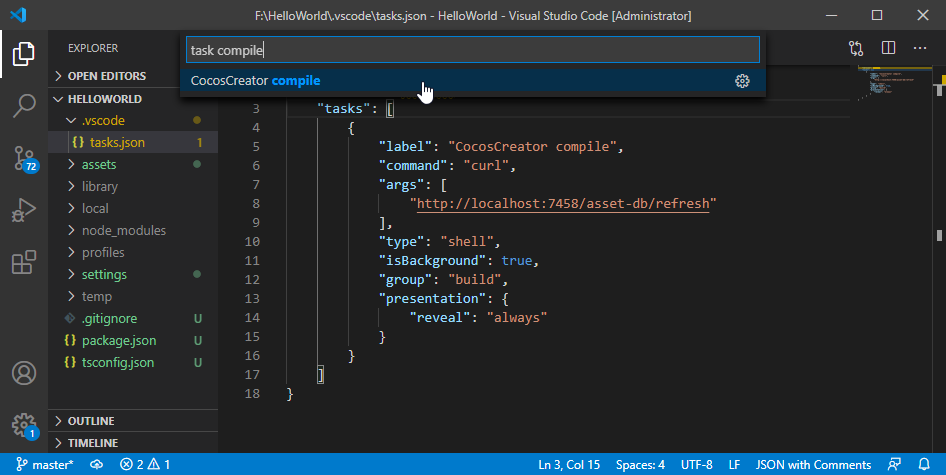
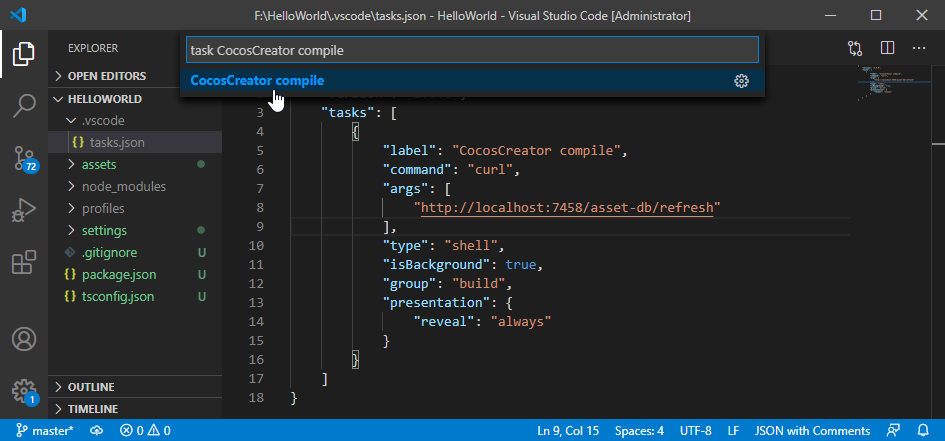
Commit changes

diff --git a/en/scripting/coding-setup.md b/en/scripting/coding-setup.md
@@ -67,14 +67,14 @@ Cocos Creator 在顶部菜单栏的 **开发者 -> VS Code 工作流** 中集成
 
 ![vscode workflow](coding-setup/vscode-workflow.png)
 
-- **添加编译任务**：用于在 VS Code 中触发 Creator 的脚本自动编译，详情请参考下文 **使用 VS Code 激活脚本编译** 部分的内容。
+- **添加编译任务**：用于在 VS Code 中触发 Creator 的脚本编译，详情请参考下文 **使用 VS Code 激活脚本编译** 部分的内容。
 
 - **添加 Chrome Debug 配置**：用于调试网页版游戏，详情请参考下文 **使用 VS Code 调试网页版游戏** 部分的内容。
 
 ### 使用 VS Code 激活脚本编译
 
-使用外部脚本编辑器修改项目脚本后，需要返回 Cocos Creator 编辑器以触发脚本自动编译。<br>
-我们在 Creator 中提供了 **添加编译任务** 功能，通过一个预览服务器的 API 向特定地址发送请求来激活编辑器的编译，这样在外部脚本编辑器修改了项目脚本后，执行 **编译任务** 便可触发脚本自动编译，不需要返回 Cocos Creator。
+使用外部脚本编辑器修改项目脚本后，需要返回 Cocos Creator 以触发脚本编译。<br>
+我们在 Creator 中提供了 **添加编译任务** 功能，通过一个预览服务器的 API 向特定地址发送请求来激活 Creator 的编译，这样在外部脚本编辑器修改了项目脚本后，执行 **编译任务** 便可触发脚本编译，不需要返回 Cocos Creator。
 
 #### 安装 cURL
 
@@ -84,7 +84,7 @@ Cocos Creator 在顶部菜单栏的 **开发者 -> VS Code 工作流** 中集成
 
 - 点击下图箭头所示的控件，完成人机身份验证（若无法正常显示控件，请科学上网）
 
-    ![curl download](coding-setup/curl_download.jpg)
+    ![curl download](coding-setup/curl-download.png)
 
 - 点击 `curl-7.46.0-win64.exe` 开始下载并安装
 
@@ -98,7 +98,7 @@ Cocos Creator 在顶部菜单栏的 **开发者 -> VS Code 工作流** 中集成
 
     ![task.json](coding-setup/tasks-json.png)
 
-2. 在 VS Code 里按下快捷键 <kbd>Cmd/Ctrl + P</kbd>，激活 **快速打开** 输入框，然后输入 `task compile`，选择 `Cocos Creator compile`。
+2. 在 VS Code 里按下快捷键 <kbd>Cmd/Ctrl + P</kbd>，激活 **快速打开** 输入框，然后输入 `task CocosCreator compile`，选择 `CocosCreator compile`。
 
     ![task compile](coding-setup/task-compile.png)
 
@@ -114,7 +114,7 @@ VS Code 还可以为编译任务配置快捷键，在主菜单中选择 **文件
 
 ![set compile](coding-setup/set-compile.png)
 
-之后在 VS Code 中按下快捷键 <kbd>Cmd/Ctrl + Shift + B</kbd> 便会自动显示 `Cocos Creator compile`，不需要手动搜索。
+之后在 VS Code 中按下快捷键 <kbd>Cmd/Ctrl + Shift + B</kbd> 便会自动显示 `CocosCreator compile`，不需要手动搜索。
 
 更多关于 VS Code 中配置和执行任务的信息，请参考 [Integrate with External Tools via Tasks](https://code.visualstudio.com/docs/editor/tasks) 文档。
 

diff --git a/zh/scripting/coding-setup.md b/zh/scripting/coding-setup.md
@@ -67,14 +67,14 @@ Cocos Creator 在顶部菜单栏的 **开发者 -> VS Code 工作流** 中集成
 
 ![vscode workflow](coding-setup/vscode-workflow.png)
 
-- **添加编译任务**：用于在 VS Code 中触发 Creator 的脚本自动编译，详情请参考下文 **使用 VS Code 激活脚本编译** 部分的内容。
+- **添加编译任务**：用于在 VS Code 中触发 Creator 的脚本编译，详情请参考下文 **使用 VS Code 激活脚本编译** 部分的内容。
 
 - **添加 Chrome Debug 配置**：用于调试网页版游戏，详情请参考下文 **使用 VS Code 调试网页版游戏** 部分的内容。
 
 ### 使用 VS Code 激活脚本编译
 
-使用外部脚本编辑器修改项目脚本后，需要返回 Cocos Creator 编辑器以触发脚本自动编译。<br>
-我们在 Creator 中提供了 **添加编译任务** 功能，通过一个预览服务器的 API 向特定地址发送请求来激活编辑器的编译，这样在外部脚本编辑器修改了项目脚本后，执行 **编译任务** 便可触发脚本自动编译，不需要返回 Cocos Creator。
+使用外部脚本编辑器修改项目脚本后，需要返回 Cocos Creator 以触发脚本编译。<br>
+我们在 Creator 中提供了 **添加编译任务** 功能，通过一个预览服务器的 API 向特定地址发送请求来激活 Creator 的编译，这样在外部脚本编辑器修改了项目脚本后，执行 **编译任务** 便可触发脚本编译，不需要返回 Cocos Creator。
 
 #### 安装 cURL
 
@@ -84,7 +84,7 @@ Cocos Creator 在顶部菜单栏的 **开发者 -> VS Code 工作流** 中集成
 
 - 点击下图箭头所示的控件，完成人机身份验证（若无法正常显示控件，请科学上网）
 
-    ![curl download](coding-setup/curl_download.jpg)
+    ![curl download](coding-setup/curl-download.png)
 
 - 点击 `curl-7.46.0-win64.exe` 开始下载并安装
 
@@ -98,7 +98,7 @@ Cocos Creator 在顶部菜单栏的 **开发者 -> VS Code 工作流** 中集成
 
     ![task.json](coding-setup/tasks-json.png)
 
-2. 在 VS Code 里按下快捷键 <kbd>Cmd/Ctrl + P</kbd>，激活 **快速打开** 输入框，然后输入 `task compile`，选择 `Cocos Creator compile`。
+2. 在 VS Code 里按下快捷键 <kbd>Cmd/Ctrl + P</kbd>，激活 **快速打开** 输入框，然后输入 `task CocosCreator compile`，选择 `CocosCreator compile`。
 
     ![task compile](coding-setup/task-compile.png)
 
@@ -114,7 +114,7 @@ VS Code 还可以为编译任务配置快捷键，在主菜单中选择 **文件
 
 ![set compile](coding-setup/set-compile.png)
 
-之后在 VS Code 中按下快捷键 <kbd>Cmd/Ctrl + Shift + B</kbd> 便会自动显示 `Cocos Creator compile`，不需要手动搜索。
+之后在 VS Code 中按下快捷键 <kbd>Cmd/Ctrl + Shift + B</kbd> 便会自动显示 `CocosCreator compile`，不需要手动搜索。
 
 更多关于 VS Code 中配置和执行任务的信息，请参考 [Integrate with External Tools via Tasks](https://code.visualstudio.com/docs/editor/tasks) 文档。
 
